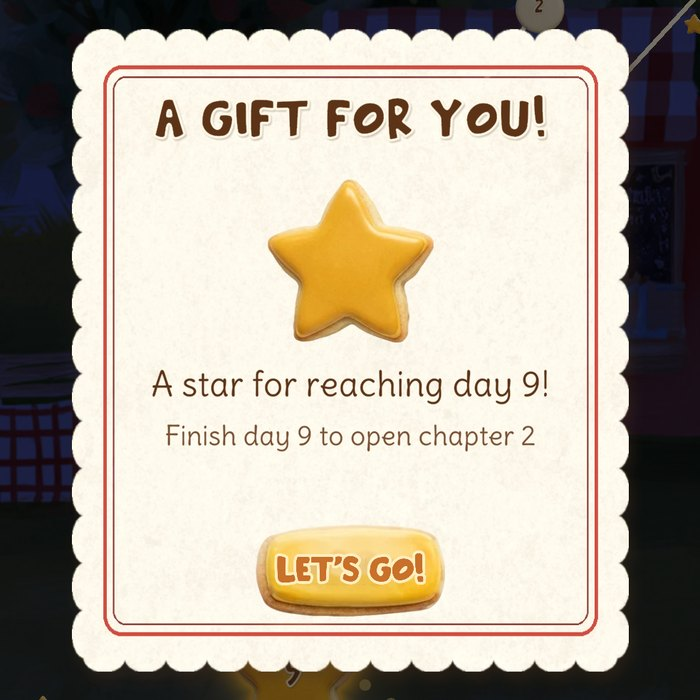
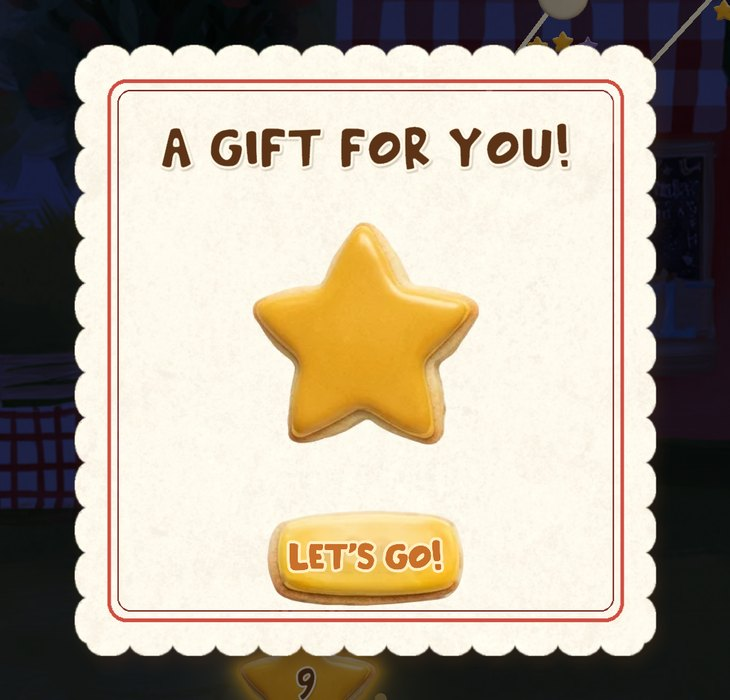
Day 9 gift card: no message, the star says it (owner, 25 Nov): title, a bigger star (300), Let's go

diff --git a/Docs/tools/report_page/index.html b/Docs/tools/report_page/index.html
@@ -101,9 +101,9 @@ h3 small{font-weight:600;color:var(--soft);font-size:13px;margin-left:6px}
 <p class="sub" style="margin:0 0 8px">25 November: game review, and the first fixes.</p>
 <div class="card">
 <p style="margin-top:0"><b>Fixed today, in the next test build.</b> <small>Captured in the editor on iPhone 6.9-inch and iPad 13-inch.</small></p>
-<p><b>Day 9 gift card, new layout</b>: a taller card; title, star, then the message in two lines under the star (the first bolder), then Let's go.</p>
+<p><b>Day 9 gift card</b>: no message any more, as you said: the title, a bigger star, Let's go. After Let's go the star spins and flies up into your stars, as before.</p>
 <div class="two"><figure style="margin:8px 0"><img src="rev25/day9_phone.jpg" alt="Before: the message squeezed in a narrow column over the star" style="height:420px;max-height:420px;width:auto"><figcaption>Before</figcaption></figure><figure style="margin:8px 0"><img src="rev25/day9_phone_new.jpg" alt="After on iPhone: A GIFT FOR YOU!, the star, A star for reaching day 9! and below it Finish day 9 to open chapter 2, then the LET'S GO! cookie" style="height:420px;max-height:420px;width:auto"><figcaption>After, iPhone</figcaption></figure><figure style="margin:8px 0"><img src="rev25/day9_ipad_new.jpg" alt="After on iPad, the same layout" style="height:420px;max-height:420px;width:auto"><figcaption>After, iPad</figcaption></figure></div>
-<p><b>Menu sticker prices</b>: bigger (48 instead of 34) and moved a little toward the middle; a small overlap stays.</p>
+<p><b>Menu sticker prices</b> (you: looks good): bigger (48 instead of 34) and moved a little toward the middle; a small overlap stays.</p>
 <figure style="margin:8px 0"><img src="rev25/menu_ipad.jpg" alt="Before on iPad: Apple, Choux and Coffee prices hidden under the next sticker" style="height:220px;max-height:220px;width:auto"><figcaption>Before, iPad</figcaption></figure><figure style="margin:8px 0"><img src="rev25/menu_ipad_new.jpg" alt="After on iPad: every price readable, $ 20, $ 35, $ 35, $ 10, $ 30" style="height:220px;max-height:220px;width:auto"><figcaption>After, iPad</figcaption></figure><figure style="margin:8px 0"><img src="rev25/menu_phone_new.jpg" alt="After on iPhone: Apple $ 20, Choux $ 35, Cake $ 35, all readable" style="height:260px;max-height:260px;width:auto"><figcaption>After, iPhone</figcaption></figure>
 <p><b>Customers</b>: the Kid now orders like the Girl and Boy (checked in two days: 2, 3 and 4 items on a 2-4 day); the Chef always orders the day's largest order. <b>Waffle machine</b>: 6 s.</p>
 <p style="font-size:14px">Kitchen shadow: left as it is, as you said.</p>

diff --git a/Assets/Scripts/Map/MapScreen.cs b/Assets/Scripts/Map/MapScreen.cs
@@ -545,37 +545,24 @@ public class MapScreen : MonoBehaviour
         var card = new GameObject("StarGift", typeof(RectTransform)); card.transform.SetParent(canvasRect, false);
         var cr = (RectTransform)card.transform; cr.anchorMin = Vector2.zero; cr.anchorMax = Vector2.one; cr.offsetMin = cr.offsetMax = Vector2.zero;
         var dim = NewImage("Dim", cr, null); dim.color = new Color(0f, 0f, 0f, 0f); Stretch(dim.rectTransform);
-        // Layout redrawn 25 November 2026 (owner: "fix day 9 gift card, redesign the layout"): the message's Place() had slipped
-        // behind a comment, so it wrapped in TMP's default 200 px box over the star. Now a taller card, top to bottom: title,
-        // star, a bold line, a softer line, Let's go; each text on its own line of code so no comment can swallow a call again.
-        var panel = NewImage("Panel", cr, Load("day_paper")); panel.preserveAspect = false; Place(panel.rectTransform, Vector2.zero, new Vector2(780f, 900f));
-        var ink = new Color(0.36f, 0.20f, 0.09f); var soft = new Color(0.47f, 0.31f, 0.20f);
+        // Layout (owner, 25 November 2026): no message on the card, the star says it (it flies up into the player's stars after
+        // Let's go). Title, a big star, Let's go. (The old message line had lost its Place() behind a comment and wrapped over the star.)
+        var panel = NewImage("Panel", cr, Load("day_paper")); panel.preserveAspect = false; Place(panel.rectTransform, Vector2.zero, new Vector2(780f, 820f));
+        var ink = new Color(0.36f, 0.20f, 0.09f);
         var title = NewText("Title", panel.rectTransform, "A GIFT FOR YOU!", 78f, ink);
-        Place(title.rectTransform, new Vector2(0f, 312f), new Vector2(700f, 110f));
+        Place(title.rectTransform, new Vector2(0f, 262f), new Vector2(700f, 120f));
         title.alignment = TextAlignmentOptions.Center;
         var star = NewImage("Star", panel.rectTransform, starSprite);
-        Place(star.rectTransform, new Vector2(0f, 118f), new Vector2(230f, 230f));
+        Place(star.rectTransform, new Vector2(0f, 22f), new Vector2(300f, 300f));
         star.transform.localScale = Vector3.zero;
-        var hand = Resources.Load<TMP_FontAsset>("Fonts & Materials/Delius SDF");
-        var lineTop = pendingChapter2 ? "A star for day 9!" : "A star for reaching day 9!";   // pendingChapter2: an older save already past day 9
-        var lineBottom = pendingChapter2 ? "Chapter 2 is opening" : "Finish day 9 to open chapter 2";
-        var line = NewText("Line", panel.rectTransform, lineTop, 46f, ink);
-        Place(line.rectTransform, new Vector2(0f, -44f), new Vector2(680f, 64f));
-        var line2 = NewText("Line2", panel.rectTransform, lineBottom, 36f, soft);
-        Place(line2.rectTransform, new Vector2(0f, -112f), new Vector2(680f, 56f));
-        foreach (var l in new[] { line, line2 })
-        {
-            if (hand != null) l.font = hand;
-            l.alignment = TextAlignmentOptions.Center; l.enableWordWrapping = false; l.overflowMode = TextOverflowModes.Overflow; l.alpha = 0f;
-        }
         var go = NewImage("LetsGo", panel.rectTransform, Resources.Load<Sprite>("UI/cookie_letsgo"));
-        Place(go.rectTransform, new Vector2(0f, -290f), new Vector2(340f, 122f));
+        Place(go.rectTransform, new Vector2(0f, -262f), new Vector2(340f, 122f));
         go.transform.localScale = Vector3.zero;
         var pressed = false; go.gameObject.AddComponent<Button>().onClick.AddListener(() => pressed = true);
         panel.transform.localScale = Vector3.one * 0.6f;
         for (var t = 0f; t < 1f; t += Time.deltaTime / 0.28f) { var k = Mathf.Clamp01(t); dim.color = new Color(0f, 0f, 0f, 0.55f * k); panel.transform.localScale = Vector3.one * Mathf.LerpUnclamped(0.6f, 1f, BackOut(k)); yield return null; }
         PlayChime("chime_fin2"); Haptics.Tap();
-        for (var t = 0f; t < 1f; t += Time.deltaTime / 0.45f) { var k = Mathf.Clamp01(t); star.transform.localScale = Vector3.one * BackOut(k); star.transform.localRotation = Quaternion.Euler(0f, 0f, -90f * (1f - k)); line.alpha = k; line2.alpha = k; yield return null; }
+        for (var t = 0f; t < 1f; t += Time.deltaTime / 0.45f) { var k = Mathf.Clamp01(t); star.transform.localScale = Vector3.one * BackOut(k); star.transform.localRotation = Quaternion.Euler(0f, 0f, -90f * (1f - k)); yield return null; }
         for (var t = 0f; t < 1f; t += Time.deltaTime / 0.25f) { go.transform.localScale = Vector3.one * BackOut(Mathf.Clamp01(t)); yield return null; }
         var w = 0f; var auto = GiftAutoSeconds > 0f ? GiftAutoSeconds : float.MaxValue;
         while (!pressed && w < auto) { w += Time.deltaTime; star.transform.localScale = Vector3.one * (1f + 0.06f * Mathf.Sin(w * 4f)); yield return null; }
